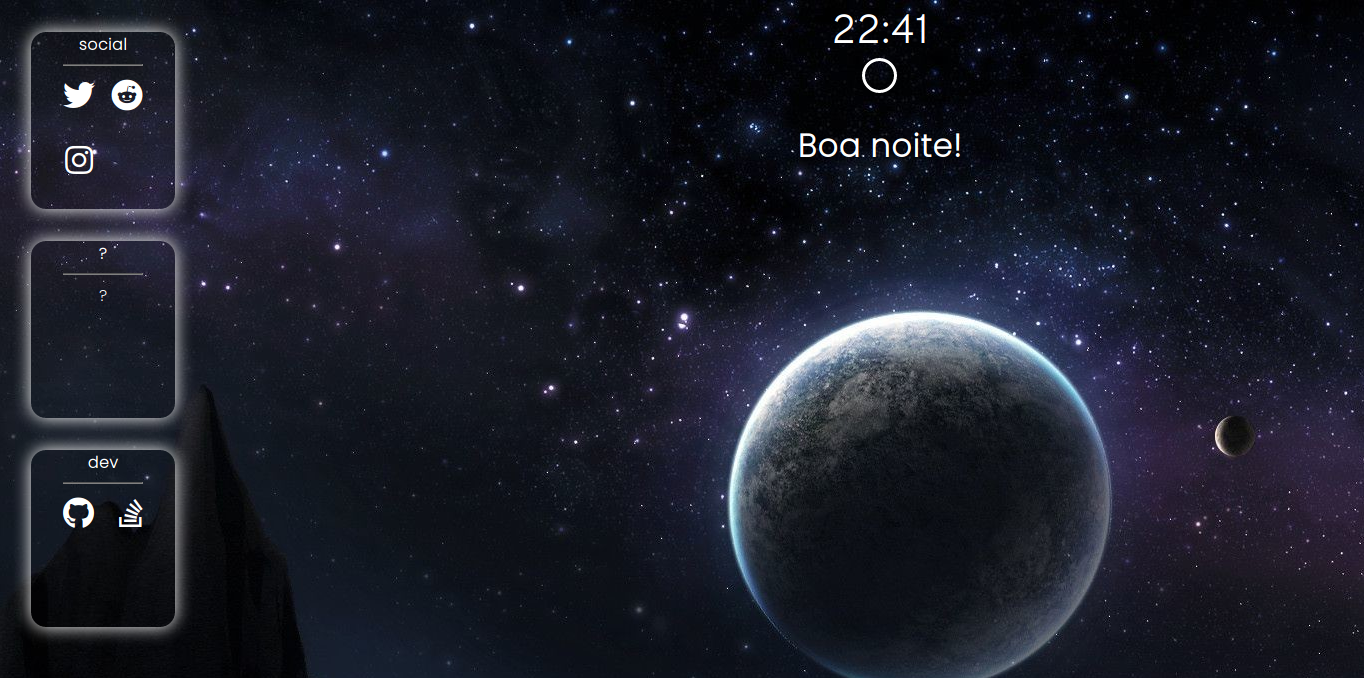
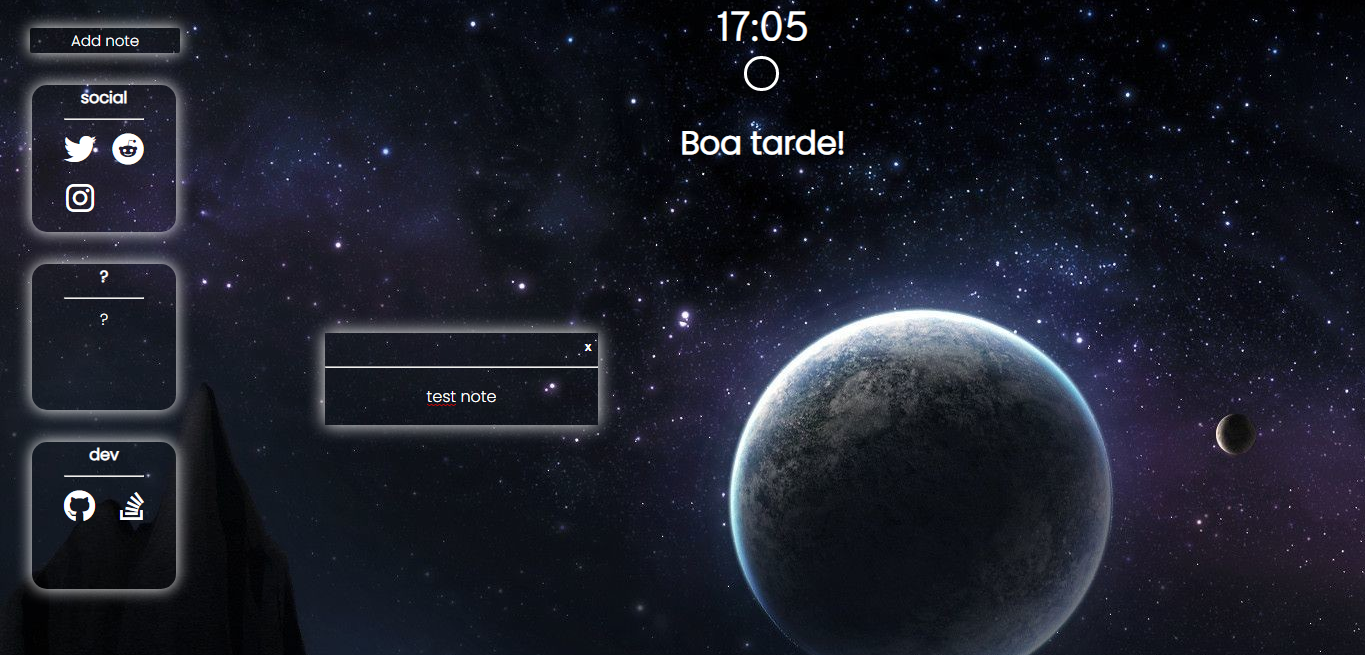
Notes!

diff --git a/js/notes/notes.js b/js/notes/notes.js
@@ -1,0 +1,140 @@
+function createNote(data) {
+
+    let quantityNotes = document.getElementsByClassName('note').length;
+    if (quantityNotes >= 5) {
+        alert('Se você teve que anotar mais de 5 tarefas, chegou a hora de parar de anotar e começar a fazer! bora!')
+        return;
+    }
+    else {
+        if (data == 'text') {
+            console.log('text');
+        }
+
+        let note = document.createElement('div');
+        note.style.top = data.top;
+        note.style.left = data.left;
+        note.className = 'note';
+        note.setAttribute('contenteditable', 'true');
+
+        document.getElementById('notes').appendChild(note);
+
+        let note_text = document.createElement('p');
+        note_text.className = 'note_text';
+
+        let header = document.createElement('header');
+        header.className = 'note_header';
+        header.id = 'note_header';
+        header.setAttribute('contenteditable', false);
+        header.setAttribute('onclick', 'HeaderClick()');
+
+        let excluir = document.createElement('button');
+        excluir.className = 'btn_excluir';
+        excluir.textContent = 'x';
+        excluir.setAttribute('onclick', 'removeOnClick()');
+
+        let line = document.createElement('hr');
+
+        header.appendChild(excluir);
+        header.appendChild(line);
+
+        note.appendChild(header);
+        note.appendChild(note_text);
+
+        if (data.text == null) {
+            note_text.innerText = 'text';
+        }
+        else {
+            note_text.innerText = data.text;
+        }
+    }
+}
+
+function removeAll() {
+    window.localStorage.clear();
+}
+
+function saveNotes(id, text, left, top) {
+    obj = {
+        text,
+        left,
+        top
+    };
+
+    window.localStorage.setItem(id, JSON.stringify(obj));
+    console.log('saved');
+}
+
+function getNotes() {
+    for (let i = 0; i <= 5; i++) {
+        let notes = window.localStorage.getItem(i);
+        if (notes == null || notes == '<br>') {
+            console.log('');
+        }
+        else {
+            createNote(JSON.parse(notes));
+        }
+    }
+}
+
+function remove(id) {
+    window.localStorage.removeItem(id);
+
+    let note = document.getElementsByClassName('note')[id];
+    document.getElementById('notes').removeChild(note);
+}
+
+function removeOnClick() {
+    var arrayNotes = document.getElementsByClassName('note');
+
+    for (let i = 0; i < arrayNotes.length; i++) {
+        [arrayNotes].forEach((it) => {
+            it.item(i).addEventListener('click', () => {
+                let note = document.getElementsByClassName('note')[i];
+                document.getElementById('notes').removeChild(note);
+            })
+        })
+    }
+}
+
+function HeaderClick() {
+    var arrayNotes = document.getElementsByClassName('note');
+
+    for (let i = 0; i < arrayNotes.length; i++) {
+        [arrayNotes].forEach((it) => {
+            it.item(i).addEventListener('click', () => {
+                Drag(i)
+            })
+        })
+    }
+}
+
+function Drag(id) {
+    var element = document.getElementsByClassName('note')[id];
+    
+    if (element == undefined || element == null) {
+        return;
+    }
+
+    element.style.position = "absolute";
+
+    let dragElement = null;
+
+    element.onmousedown = function () {
+        dragElement = element;
+    }
+
+    document.onmouseup = function () {
+        dragElement = null;
+    };
+
+    document.onmousemove = function (e) {
+        var x = e.pageX;
+        var y = e.pageY;
+
+        if (dragElement == null)
+            return;
+
+        dragElement.style.left = x + "px";
+        dragElement.style.top = y + "px";
+    };
+}

diff --git a/index.html b/index.html
@@ -4,8 +4,10 @@
 <head>
     <meta charset="UTF-8">
     <meta name="viewport" content="width=device-width, initial-scale=1.0">
+    <link rel="shortcut icon" href="img/favicon.png" type="image/x-icon">
     <link rel="stylesheet" href="css/styles.css" />
     <link rel="stylesheet" href="fontAwesome/css/all.min.css">
+    <link rel="stylesheet" href="css/notes.css">
     <link href="https://fonts.googleapis.com/css2?family=Overpass:wght@200&display=swap" rel="stylesheet">
     <link href="https://fonts.googleapis.com/css2?family=Poppins:ital,wght@1,500&display=swap" rel="stylesheet">
     <link href="https://fonts.googleapis.com/css2?family=Poppins:wght@300&display=swap" rel="stylesheet">
@@ -24,6 +26,7 @@
     </div>
 
     <div id="box">
+        <input type="button" value="Add note" id="add-note" onclick="createNote('text')" />
         <div class="container-box">
             <header>social</header>
             <hr />
@@ -58,12 +61,24 @@
         </div>
     </div>
 
+    <div class="divNotes">
+        <main id="notes">
+        </main>
+    </div>
+
     <script type="text/javascript" src="js/clock.js"></script>
-    <script type="text/javascript" src="js/weather.js"></script>
     <script type="text/javascript" src="js/search.js"></script>
+    <script type="text/javascript" src="js/notes/notes.js"></script>
 
     <script>
         window.onload = () => {
+            getNotes();
+
+            var arrayNotes = document.getElementsByClassName('note_text');
+            for (let i = 0; i < arrayNotes.length; i++) {
+                Drag(i)
+            }
+
             document.getElementById("clock").innerHTML = getTime();
             // Set clock interval to tick clock
             setInterval(() => {
@@ -71,6 +86,28 @@
             }, 100);
 
             document.getElementById("message").innerHTML = defineMessage();
+        };
+        window.onbeforeunload = function () {
+            removeAll();
+
+            var arrayNotes = document.getElementsByClassName('note_text');
+
+            if (arrayNotes == null) {
+                console.log('nada para excluir!');
+                return;
+            }
+
+            for (let i = 0; i < arrayNotes.length; i++) {
+                var text = document.getElementsByClassName('note_text').item(i).innerHTML;
+                var top = document.getElementsByClassName('note').item(i).style.top;
+                var left = document.getElementsByClassName('note').item(i).style.left;
+
+                if (text == null || text == '<br>' || text == 'text') {
+                    remove(i);
+                }
+
+                saveNotes(i, text, left, top);
+            }
         };
     </script>
 </body>

diff --git a/css/styles.css b/css/styles.css
@@ -2,7 +2,7 @@ body {
     background-image: url("../img/background.jpg");
     background-repeat: no-repeat;
     display: grid;
-    grid-template-areas: 'box container container container' 'box container container container' 'box container container container';
+    grid-template-areas: 'box divNotes container container container' 'box divNotes container container container' 'box divNotes container container container';
     margin: 0;
 }
 
@@ -10,19 +10,21 @@ body {
     grid-area: box;
     height: 100vh;
     display: inline-block;
-    align-items: flex-start;
+    align-items: center;
     justify-content: center;
 }
 
 .container {
-    grid-area: container;
     height: 100%;
     display: flex;
     text-align: center;
     align-items: center;
     flex-direction: column;
     margin-right: 3em;
-    margin-bottom: -2em;
+}
+
+.divNotes {
+    grid-area: divNotes;
 }
 
 #clock {
@@ -87,8 +89,25 @@ h1 {
     font-family: 'Poppins', sans-serif;
 }
 
+#add-note {
+    margin-top: 2em;
+    margin-left: 2em;
+    background-color: transparent;
+    box-shadow: 0 0 1em white;
+    font-family: 'Poppins', sans-serif;
+    transition: background-color 1s;
+    width: 10em;
+    display: flex-start;
+}
+
+#add-note:hover {
+    color: rgb(40, 38, 62);
+    cursor: pointer;
+    background-color: white;
+}
+
 .container-box {
-    height: 19vh;
+    height: 15vh;
     width: 5em;
     padding: 0 2em 3em 2em;
     margin: 2em;
@@ -123,19 +142,19 @@ h1 {
     grid-template-areas: 'icon1 icon2' 'icon3 icon4';
 }
 
-.container-box > .content > .icon1 {
+.container-box>.content>.icon1 {
     grid-area: icon1;
 }
 
-.container-box > .content > .icon2 {
+.container-box>.content>.icon2 {
     grid-area: icon2;
 }
 
-.container-box > .content > .icon3 {
+.container-box>.content>.icon3 {
     grid-area: icon3;
 }
 
-.container-box > .content > .icon4 {
+.container-box>.content>.icon4 {
     grid-area: icon4;
 }
 

diff --git a/css/notes.css b/css/notes.css
@@ -1,0 +1,32 @@
+.note {
+    background-color: transparent;
+    box-shadow: 0 0 1em white;
+    color: white;
+    font-family: 'Poppins', sans-serif;
+    display: table;
+    width: 20%;
+    text-align: center;
+    margin-top: 5px;
+}
+
+.note header {
+    text-align: right;
+    transition: background-color 0.5s;
+    cursor: grab;
+}
+
+.note:hover header {
+    background-color: black;
+}
+
+.note:hover {
+    backdrop-filter: blur(2px);
+}
+
+.btn_excluir {
+    border: none;
+    color: white;
+    background-color: transparent;
+    font-weight: bold;
+    cursor: pointer;
+}
